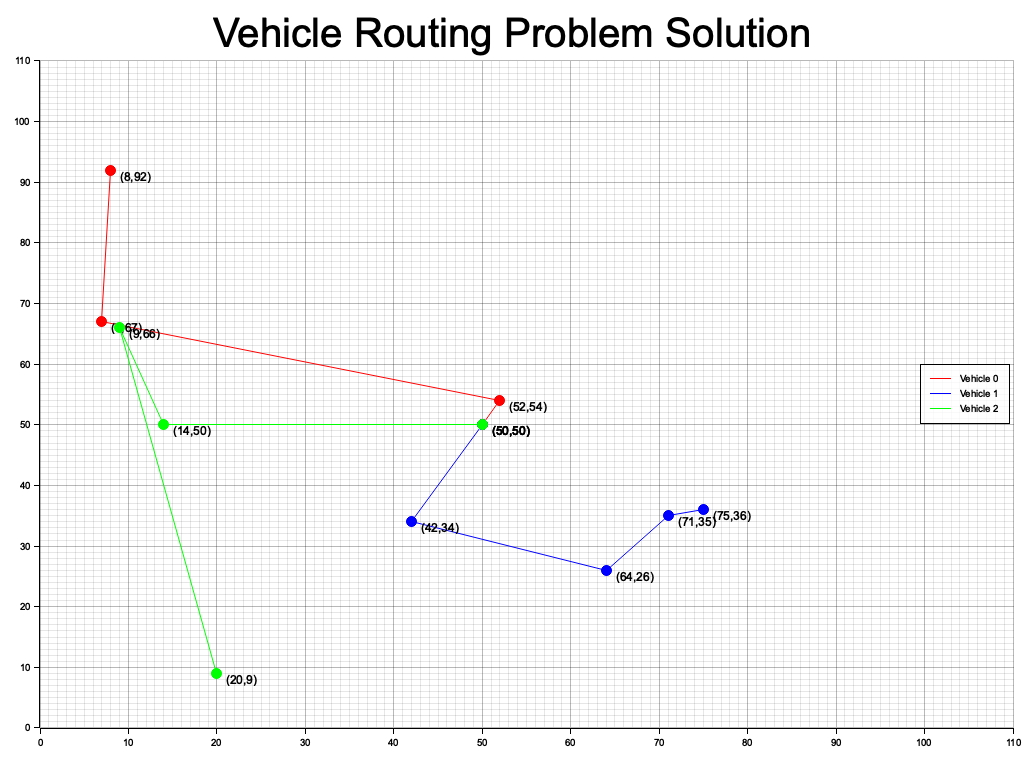
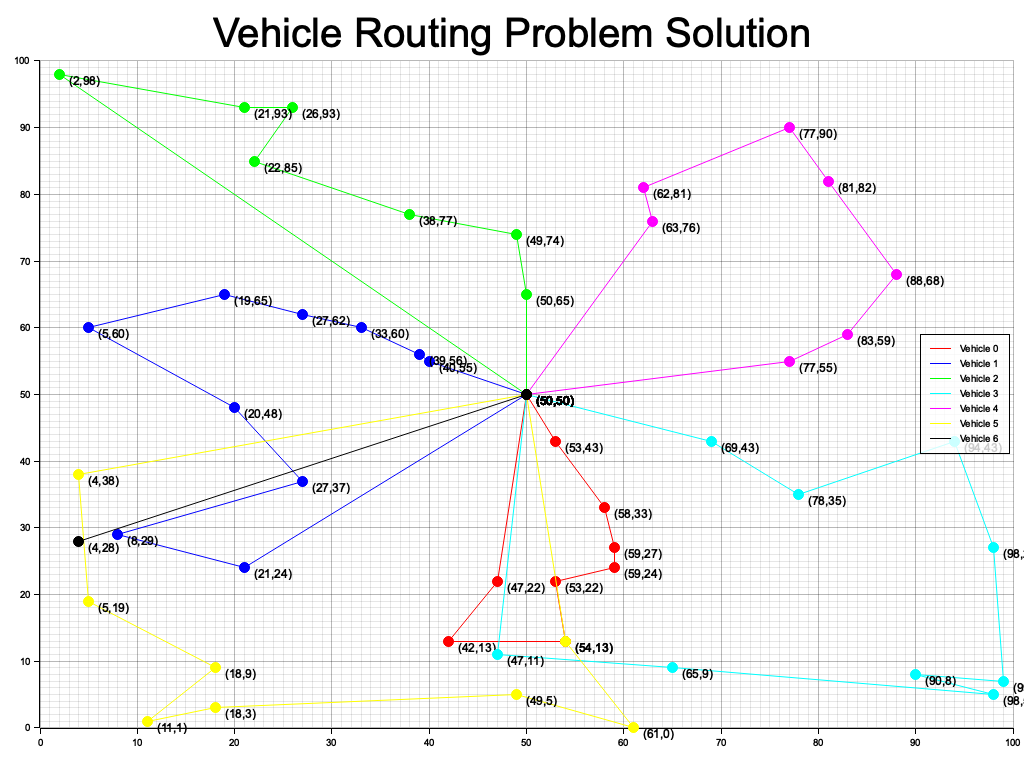
added local search with SA

Changed region(s): [[0.0, 0.0938, 1.0, 0.9688], [0.0, 0.0625, 0.0312, 0.0938]]

diff --git a/src/methods/local_search.rs b/src/methods/local_search.rs
@@ -1,0 +1,74 @@
+use crate::resources:: vehicle::Vehicle;
+use super::evaluate_solution::evaluate;
+use rand::Rng;
+use std::f64;
+
+pub fn simulated_annealing(vehicles: Vec<Vehicle>) -> Vec<Vehicle> {
+    let mut temperature = 5000.0;
+    let cooling_rate = 0.99;
+    let min_temperature = 1.0; // Ensure the temperature does not become too small
+    let max_iterations = 10000000;
+
+    let mut rng = rand::thread_rng();
+    let mut current_solution = vehicles.clone();
+    let mut best_solution = current_solution.clone();
+    let mut best_cost = evaluate(&best_solution);
+    let mut current_cost = best_cost;
+    let mut iteration = 0;
+
+    while temperature > min_temperature && iteration < max_iterations {
+        let new_solution = perturb(&current_solution);
+        let new_cost = evaluate(&new_solution);
+        let acceptance_probability = acceptance_probability(current_cost, new_cost, temperature);
+        let random_number = rng.gen::<f64>();
+        if new_cost < current_cost || random_number < acceptance_probability {
+            current_solution = new_solution;
+            current_cost = new_cost;
+            if current_cost < best_cost {
+                best_solution = current_solution.clone();
+                best_cost = current_cost;
+            }
+        }
+        temperature *= cooling_rate; // Decay temperature
+        iteration += 1;
+    }
+    best_solution
+}
+
+fn perturb(vehicles: &Vec<Vehicle>) -> Vec<Vehicle> {
+    let mut rng = rand::thread_rng();
+    let mut new_solution = vehicles.clone();
+
+    // Ensure we have at least one vehicle and a route with at least two customers
+    if new_solution.is_empty() || new_solution.iter().all(|v| v.route.len() < 2) {
+        return new_solution;
+    }
+
+    let vehicle_index = rng.gen_range(0..new_solution.len());
+    let vehicle = &mut new_solution[vehicle_index];
+
+    if vehicle.route.len() < 2 {
+        return new_solution;
+    }
+
+    let customer_index = rng.gen_range(1..vehicle.route.len() - 1);
+    let customer = vehicle.route.remove(customer_index);
+
+    // Ensure that we do not insert at out-of-bound positions
+    let best_position = (0..vehicle.route.len())
+        .map(|i| (i, vehicle.calculate_insertion_cost_at_position(i, &customer)))
+        .min_by(|a, b| a.1.partial_cmp(&b.1).unwrap())
+        .map(|x| x.0)
+        .unwrap_or(0);
+
+    vehicle.route.insert(best_position, customer);
+    new_solution
+}
+
+fn acceptance_probability(current_cost: f64, new_cost: f64, temperature: f64) -> f64 {
+    if new_cost < current_cost {
+        1.0
+    } else {
+        ((current_cost - new_cost) / temperature).exp()
+    }
+}

diff --git a/src/resources/vehicle.rs b/src/resources/vehicle.rs
@@ -1,5 +1,8 @@
 use crate::resources::customer::Customer;
 
+use super::point::Point;
+
+#[derive(Clone)]
 pub struct Vehicle{
     pub id: usize,
     pub capacity: u32,
@@ -16,6 +19,32 @@ impl Vehicle{
             cost += last_customer.location.distance(&customer.location);
         }
 
+        cost
+    }
+
+    pub fn calculate_insertion_cost_at_position(&self, position: usize, customer: &Customer) -> f64 {
+        let mut cost = 0.0;
+    
+        // Calculate distance from the previous customer to the new customer
+        if position > 0 {
+            let prev_customer = &self.route[position - 1];
+            cost += prev_customer.location.distance(&customer.location);
+        } else {
+            // If position is 0, consider the depot or starting point
+            // Assuming the starting point is at (0, 0)
+            cost += Point { x: 0, y: 0 }.distance(&customer.location);
+        }
+    
+        // Calculate distance from the new customer to the next customer
+        if position < self.route.len() {
+            let next_customer = &self.route[position];
+            cost += customer.location.distance(&next_customer.location);
+        } else {
+            // If position is at the end, consider the depot or ending point
+            // Assuming the ending point is at (0, 0)
+            cost += customer.location.distance(&Point { x: 0, y: 0 });
+        }
+    
         cost
     }
 }

diff --git a/src/main.rs b/src/main.rs
@@ -1,11 +1,11 @@
 use std::collections::HashSet;
 
-use VRP_Rust::methods::{setup::create_problem, insertion::greedy_insertion, visualization::visualize_solution};
+use VRP_Rust::methods::{evaluate_solution::evaluate, insertion::greedy_insertion, local_search::simulated_annealing, setup::create_problem, visualization::visualize_solution};
 
 fn main() {
-    let num_customers: usize = 10;
-    let num_vehicles: usize = 3;
-    let capacity: u32 = 25;
+    let num_customers: usize = 50;
+    let num_vehicles: usize = 7;
+    let capacity: u32 = 50;
 
     let (customers, mut vehicles) = create_problem(num_customers, num_vehicles, capacity);
     // create a set of unassigned customers
@@ -22,8 +22,13 @@ fn main() {
 
     // insert each customer one by one into routes using greedy insertion
     vehicles = greedy_insertion(&customers, vehicles, &unassigned_customers);
+    let mut cost = evaluate(&vehicles);
+    println!("Initial cost: {}", cost);
 
-    // improve the solution using: 
+    // improve the solution using SA-based 2-opt local search
+    vehicles = simulated_annealing(vehicles);
+    cost = evaluate(&vehicles);
+    println!("Final cost: {}", cost);
 
     // Visualize the solution
     visualize_solution(&vehicles);

diff --git a/src/methods/insertion.rs b/src/methods/insertion.rs
@@ -26,5 +26,11 @@ pub fn greedy_insertion(customers: &Vec<Customer>, mut vehicles: Vec<Vehicle>, u
         vehicles[best_vehicle].route.push(customers[best_customer].clone());
         unassigned_customers.remove(&best_customer);
     }
+
+    // insert hub at the end of each vehicle route
+    for v in &mut vehicles{
+        v.route.push(customers[customers.len()-1].clone());
+    }
+
     vehicles
 }

diff --git a/src/methods/evaluate_solution.rs b/src/methods/evaluate_solution.rs
@@ -1,0 +1,13 @@
+use crate::resources::vehicle::Vehicle;
+
+pub fn evaluate(vehicles: &Vec<Vehicle>) -> f64{
+    let mut total_cost = 0.0;
+    for v in vehicles{
+        let mut cost = 0.0;
+        for i in 0..v.route.len()-1{
+            cost += v.route[i].location.distance(&v.route[i+1].location);
+        }
+        total_cost += cost;
+    }
+    total_cost
+}

diff --git a/src/methods/mod.rs b/src/methods/mod.rs
@@ -1,3 +1,5 @@
 pub mod insertion;
 pub mod setup;
 pub mod visualization;
+pub mod evaluate_solution;
+pub mod local_search;
